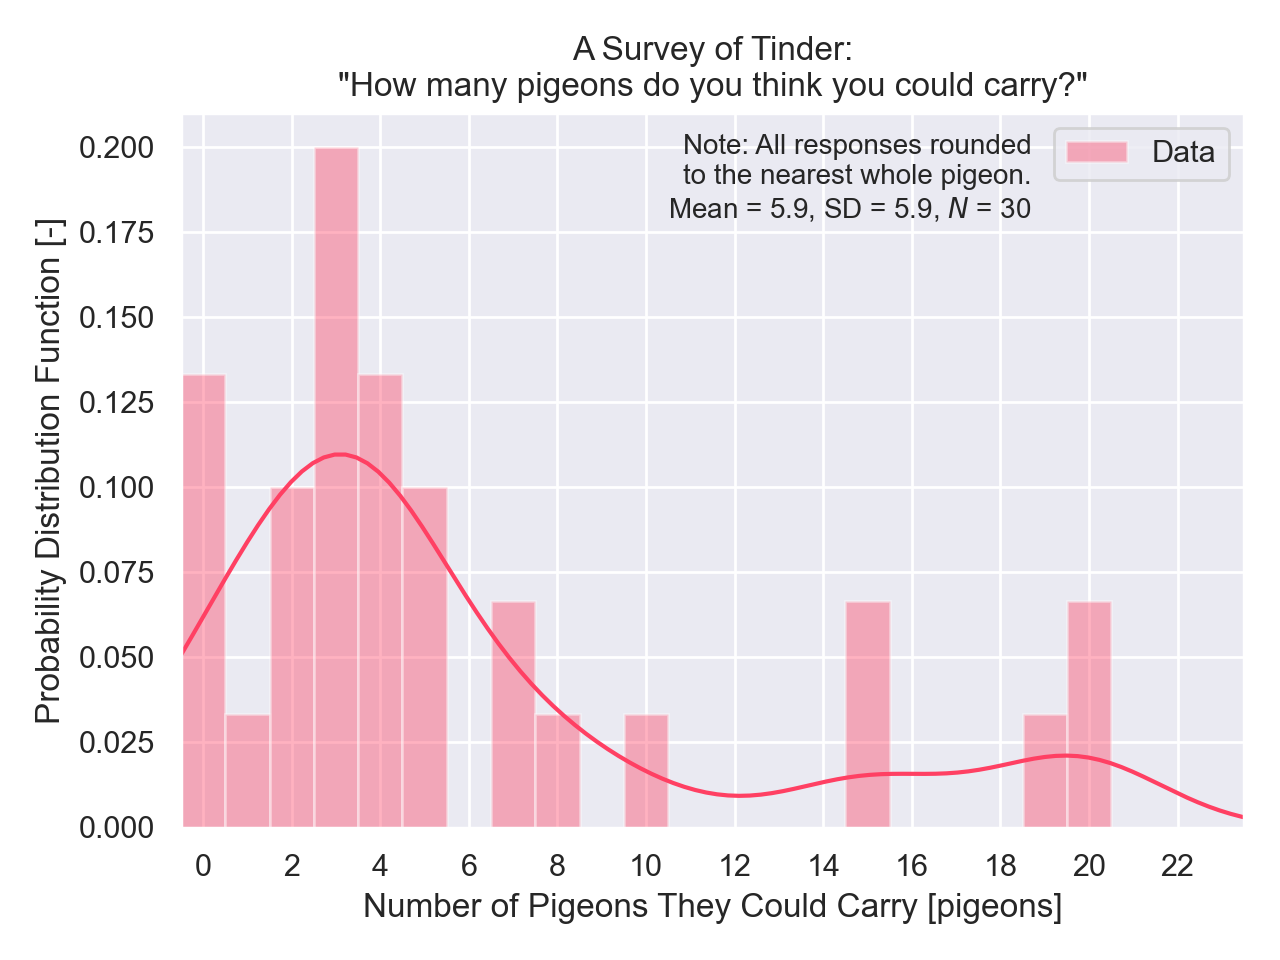
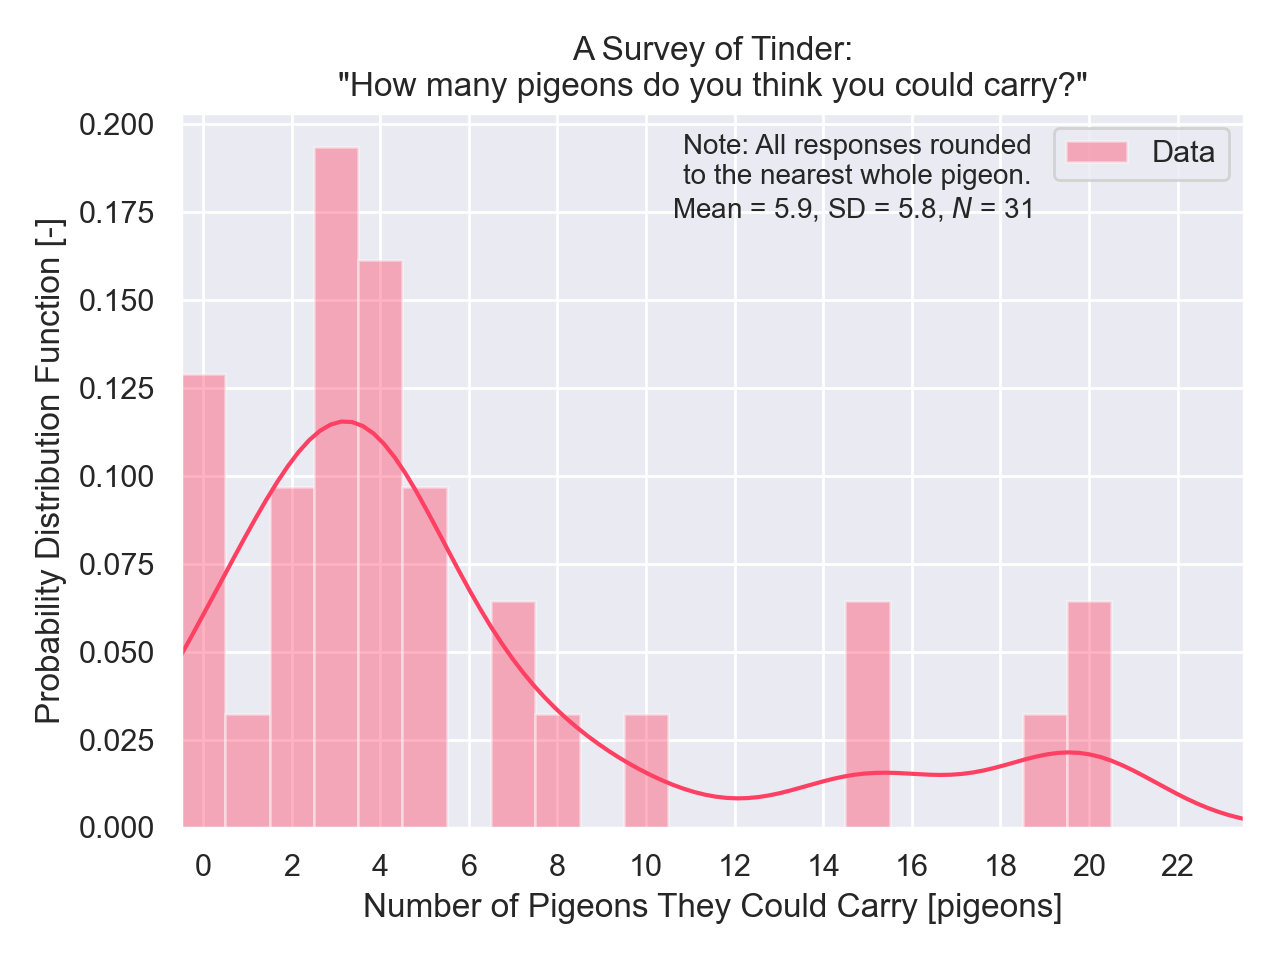
Added new person: Elizabeth!

diff --git a/build.py b/build.py
@@ -33,11 +33,11 @@ line()
 # Run the pigeons script
 print("Running the pigeons analysis script...")
 import pigeons as p
-if not input("Does the data look good? (y/n): ").lower().strip() == "y":
-    print("Aborting and restoring old data!")
-    with open("data.csv", "w") as f:
-        f.writelines(data_original)
-    exit(0)
+# if not input("Does the data look good? (y/n): ").lower().strip() == "y":
+#     print("Aborting and restoring old data!")
+#     with open("data.csv", "w") as f:
+#         f.writelines(data_original)
+#     exit(0)
 
 # Run a Git commit to push up to the server
 import os
